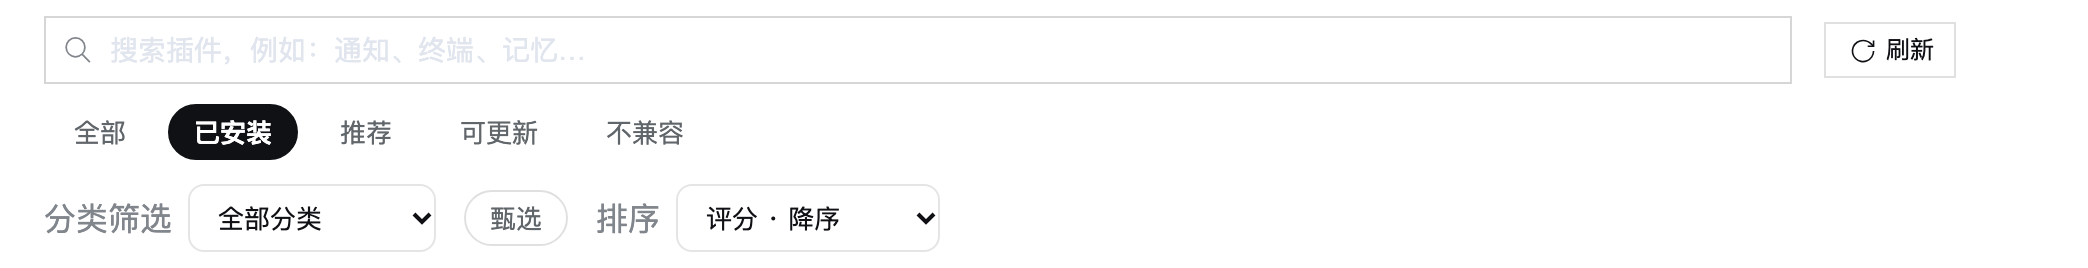
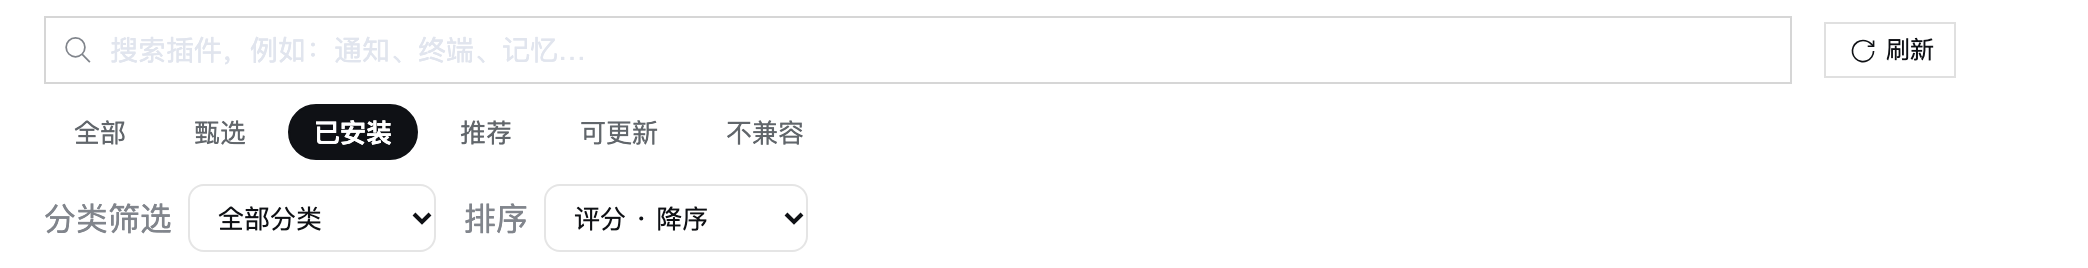
Keep 甄选 in the status row, second after 全部
The field clarified the requested position: the status bar reads
全部, 甄选, 已安装, 推荐, 可更新, 不兼容. The previous commit had moved the
shortcut onto the category-controls line; that placement is reverted.

甄选 is still the same category toggle sharing state with the selector, now
rendered with the new filter-chip treatment: selecting it fills the chip and
「全部」 steps back, so the row shows a single active entry. 「分类筛选」 and
「排序」 keep their own non-wrapping line. Tests, the client contract and the
issue-4 evidence README are updated to the confirmed order.

diff --git a/src/client/MarketSection.tsx b/src/client/MarketSection.tsx
@@ -597,12 +597,11 @@ function Toolbar(props: {
   const { t, query, onQuery, placeholder, busy, onReload, filter, onFilter, recommended, sort, onSort, category, onCategory, categories, categoryCounts } = props
   /*
    * The site's own front page lists every category as a chip with 「甄选」 pinned
-   * first. The panel keeps that shortcut visible, but it belongs to the CATEGORY
-   * controls: putting it in the status chip row made a category look like one of
-   * the mutually-exclusive states. It now sits on the 分类筛选 line, horizontally
-   * with the selector it shortcuts, which also keeps the click state (a filled
-   * chip) next to the control it explains. The selector still reaches the whole
-   * vocabulary.
+   * first. The field asked for that shortcut in the STATUS bar, second after
+   * 「全部」 (全部, 甄选, 已安装, 推荐, 可更新, 不兼容) — an earlier revision of this
+   * change had moved it next to 分类筛选 and was corrected on feedback. It stays
+   * a category toggle sharing state with the selector; selecting it marks the
+   * chip (filled) and 「全部」 steps back so the row shows one active entry.
    */
   const featured = categories?.[0]
   const selectedCategoryLabel = category === undefined || category === ''
@@ -638,21 +637,40 @@ function Toolbar(props: {
       </div>
       {filter !== undefined && onFilter !== undefined && (
         <div className={`${css.toolbarLine} ${css.chipLine}`} role="group" aria-label={t('filterLabel')}>
-          {FILTERS.map(entry => (
+          {FILTERS.slice(0, 1).map(entry => (
             <button
               key={entry.id}
               type="button"
-              /* The status row states the STATUS only. 「全部」 also clears the
-               * category when clicked (it is the "no filter" entry), but a
-               * category selection no longer has to blank this row's selected
-               * chip: the category shortcut has its own pressed state on the
-               * category line now. */
-              aria-pressed={filter === entry.id}
-              className={chip(filter === entry.id)}
+              /* 「全部」 is the "no filter" entry: it also clears the category, so
+               * it counts as selected only while neither a status nor a category
+               * narrows the listing. */
+              aria-pressed={filter === entry.id && (category === undefined || category === '')}
+              className={chip(filter === entry.id && (category === undefined || category === ''))}
               onClick={() => {
-                if (entry.id === 'all') onCategory?.('')
+                onCategory?.('')
                 onFilter(entry.id)
               }}
+            >
+              {t(entry.label)}
+            </button>
+          ))}
+          {featured !== undefined && onCategory !== undefined && category !== undefined && (
+            <button
+              type='button'
+              aria-pressed={category === featured.id}
+              className={chip(category === featured.id)}
+              onClick={() => { onCategory(category === featured.id ? '' : featured.id) }}
+            >
+              {categoryEntryLabel(featured, props.english === true)}
+            </button>
+          )}
+          {FILTERS.slice(1).map(entry => (
+            <button
+              key={entry.id}
+              type="button"
+              aria-pressed={filter === entry.id}
+              className={chip(filter === entry.id)}
+              onClick={() => onFilter(entry.id)}
             >
               {t('fallbackLabel' in entry && recommended !== true ? entry.fallbackLabel : entry.label)}
             </button>
@@ -689,17 +707,6 @@ function Toolbar(props: {
             })}
           </select>
         </label>
-      )}
-      {featured !== undefined && category !== undefined && onCategory !== undefined && (
-        <button
-          type='button'
-          aria-pressed={category === featured.id}
-          className={`${chip(category === featured.id)} ${css.categoryQuick}`}
-          title={categoryEntryLabel(featured, props.english === true)}
-          onClick={() => { onCategory(category === featured.id ? '' : featured.id) }}
-        >
-          {categoryEntryLabel(featured, props.english === true)}
-        </button>
       )}
       {sort !== undefined && onSort !== undefined && (
         <label className={`${css.row} ${css.controlsFixed}`}>

diff --git a/tests/client-market.test.ts b/tests/client-market.test.ts
@@ -1183,10 +1183,9 @@ describe('Discover — the featured category is a chip, and the controls share a
   /**
    * Layout requirements from the field:
    *  1. the site's featured category (甄选, first in the published vocabulary)
-   *     stays visible WITHOUT opening a selector, but it is a CATEGORY shortcut
-   *     and must sit horizontally with the category controls — not among the
-   *     mutually-exclusive status chips, where it read as a sixth status;
-   *  2. 「分类筛选」, 「甄选」 and 「排序」 share one non-wrapping line;
+   *     is a shortcut in the STATUS bar, second after 「全部」:
+   *     全部, 甄选, 已安装, 推荐, 可更新, 不兼容;
+   *  2. 「分类筛选」 and 「排序」 share one non-wrapping line;
    *  3. the clicked chip is marked by its own colour (a class the stylesheet
    *     fills), so hover cannot be mistaken for the selection.
    */
@@ -1245,22 +1244,20 @@ describe('Discover — the featured category is a chip, and the controls share a
       .find(button => (button.textContent ?? '').trim() === label) as HTMLButtonElement | undefined
   }
 
-  it('keeps the status row to statuses and puts 甄选 on the category line', async () => {
+  it('lists 甄选 second in the status row, right after 全部', async () => {
     const host = await mountIn('zh')
     const statuses = [...host.querySelectorAll('[role="group"] button')].map(button => (button.textContent ?? '').trim())
     // This stub ships no `ranking` block, so the recommendation entry renders
     // its honest fallback name 「未安装」.
-    expect(statuses).toEqual(['全部', '已安装', '未安装', '可更新', '不兼容'])
+    expect(statuses).toEqual(['全部', '甄选', '已安装', '未安装', '可更新', '不兼容'])
 
-    const featured = chip(host, '甄选')
-    expect(featured).toBeDefined()
+    // 分类筛选与排序仍在同一行（甄选不占用这一行）。
     const category = host.querySelector('select[aria-label="分类筛选"]')
     const sort = host.querySelector('select[aria-label="排序"]')
     const line = category?.closest('[class*="toolbarControlsLine"]')
     expect(line).not.toBeNull()
-    // 甄选与分类下拉、排序同属一行。
-    expect(line?.contains(featured ?? null)).toBe(true)
     expect(line?.contains(sort ?? null)).toBe(true)
+    expect(line?.contains(chip(host, '甄选') ?? null)).toBe(false)
   })
 
   it('marks the clicked chip with an active colour class, not a hover-only cue', async () => {

diff --git a/src/client/Galaxy.module.css b/src/client/Galaxy.module.css
@@ -73,18 +73,11 @@
   color:var(--dsw-alias-label-primary-foreground,#fff);
   font-weight:600;
 }
-/* The 甄选 shortcut sits beside a labelled select, where unselected plain text
- * read as a second label. A hairline outline keeps it visibly a control without
- * competing with the filled selected state (which keeps the accent border). */
-.categoryQuick:not(.filterChipActive){border-color:var(--dsh-border,var(--dsw-alias-border-l3,#d5d9e0))}
 
-/* Three deliberate lines instead of one wrapping row: search, the status chips,
- * then the category controls (分类筛选 · 甄选 · 排序). The featured-category chip
- * lives on the category line, not among the statuses: a category is not a
- * mutually-exclusive state, and the field asked for it to sit horizontally with
- * the category control it shortcuts. A wrapping flex row dropped the controls
- * onto a line of their own at some widths, which is what "keep them on the same
- * line" rules out. */
+/* Three deliberate lines instead of one wrapping row: search, the status chips
+ * (including the 甄选 shortcut, second after 「全部」), then the 分类筛选 + 排序
+ * controls. A wrapping flex row dropped the controls onto a line of their own at
+ * some widths, which is what "keep them on the same line" rules out. */
 .toolbar{display:flex;flex-direction:column;align-items:stretch;gap:8px;padding:8px 0}
 .toolbarLine{display:flex;align-items:center;gap:8px;min-width:0;flex-wrap:nowrap}
 /* Chips may outgrow the dialog once the site adds categories; scroll rather than

diff --git a/docs/client-contract.md b/docs/client-contract.md
@@ -334,7 +334,7 @@ monorepo 条目在目录里是 `repo#subpath`（如 `archify#integrations/deepse
 | 选中的是 **slug**，不是标签 | 站点可以给分类改标签而不动行数据 |
 | 分类筛选与「状态筛选」「搜索」叠加：先按分类，再按状态，再按搜索 | 三者是正交维度 |
 | 「推荐」是固定榜单：分类过滤同样生效，结果为空时提示"切到「全部」" | 榜单只收录计分条目（甄选类不计分），不假装有内容 |
-| **词表首个分类会被提成 chip**，放在「分类筛选」那一行、与分类下拉和排序水平排列（当前 = 甄选） | 官网首页把分类做成 chips 且甄选恒定置顶；放到下拉里等于"看不见"。它是**分类**快捷方式，不是状态筛选，所以不能混进状态 chip 行（会被读成第六种状态）。官网调整词表顺序，chip 自动跟随 |
+| **词表首个分类会被提成 chip**，排在状态行「全部」之后（当前 = 甄选：全部 / 甄选 / 已安装 / 推荐 / 可更新 / 不兼容） | 官网首页把分类做成 chips 且甄选恒定置顶；放到下拉里等于"看不见"。现场要求它就在状态栏这一行、紧跟「全部」；它仍是**分类**开关（与下拉同一个状态），选中时「全部」退出选中态，行内始终只有一个选中项。官网调整词表顺序，chip 自动跟随 |
 | chip 与下拉是同一个状态：chip 点击是开关（再点一次清除），「全部」也会清除分类 | 两个入口必须可互相解释，不能各说各话 |
 | 点击后的选中态是**整块颜色**（host accent 填充 + 前景色），不是只有下划线 | 下划线 + 文字色与 hover 变的是同一个色，点完分不清"选中"和"鼠标还停在这"，看起来像点击残影；填充色让点击结果一眼可辨，hover/按下都不再改选中块的颜色，且不声明 transition（不经过中间色） |
 
@@ -343,8 +343,8 @@ monorepo 条目在目录里是 `repo#subpath`（如 `archify#integrations/deepse
 | 行 | 内容 | 约束 |
 |---|---|---|
 | 1 | 搜索框 · 视图自带控件 · 刷新 | 搜索框 `flex:1` |
-| 2 | **只有状态 chips**（`role="group"`） | `overflow-x:auto` 横向滚动，**不换行**（官网分类变多时行高仍稳定） |
-| 3 | **分类筛选 + 甄选 + 排序** | `.toolbarControlsLine`，`flex-wrap:nowrap` + `white-space:nowrap`，三者**必须同行** |
+| 2 | **状态 chips + 甄选**（`role="group"`；全部 / 甄选 / 已安装 / 推荐 / 可更新 / 不兼容） | `overflow-x:auto` 横向滚动，**不换行**（官网分类变多时行高仍稳定） |
+| 3 | **分类筛选 + 排序** | `.toolbarControlsLine`，`flex-wrap:nowrap` + `white-space:nowrap`，两者**必须同行** |
 
 > 原因：`.toolbar` 原先是 `flex-wrap:wrap` 的横排，某些宽度下「分类筛选」会被挤到单独一行（实测 `分类筛选 top=88 / 排序 top=46`）。
 > 布局探针（`npm run screenshots` 的 CDP 探测）会把两个 select 的 `getBoundingClientRect()` 一起报出来，改坏了会直接可见。
@@ -355,13 +355,13 @@ monorepo 条目在目录里是 `repo#subpath`（如 `archify#integrations/deepse
 |---|---|---|
 | 分类框与排序**重叠** | 分类框最长的选项（`服务与交易（客服 / 订阅 / 开票 / 支付） (18)`）撑起 `min-width:auto`，flex 不肯收缩 | 分类框 `min-width:0` + `max-width:320px` + `overflow:hidden;text-overflow:ellipsis`（完整标签走 `title`） |
 | 窄宽度下整行**溢出**对话框 | 行宽仍由内容决定 | `.toolbarControlsLine{container-type:inline-size}`：行宽改由容器决定，子项只能压缩不能撑宽；`@container (max-width:430px)` 时隐藏两个文字标签（两个 select 自身可读，且保留 `aria-label`） |
-| 排序被压缩 | 两个控件都可收缩 | 分类框 `flex:0 1 auto`（可收缩），甄选 chip 与排序 `flex:0 0 auto`（不参与压缩） |
+| 排序被压缩 | 两个控件都可收缩 | 分类框 `flex:0 1 auto`（可收缩），排序 `flex:0 0 auto`（不参与压缩） |
 
 实测（`npm run screenshots` 自动跑，宽 1044 逐视图 + **真实对话框宽 420 / 380**）：
 
 ```
-420px: 分类框 right=186  甄选 200–252  排序 left=266  排序 right=398 ≤ 视口 420   PASS
-380px: 分类框 right=146  甄选 160–212  排序 left=226  排序 right=358 ≤ 视口 380   PASS
+420px: 分类框 right=252  排序 left=266  排序 right=398 ≤ 视口 420   PASS
+380px: 分类框 right=212  排序 left=226  排序 right=358 ≤ 视口 380   PASS
 ```
 
 > 注意：截图探针页的 `#root` 必须 `width:100%`（曾写死 1000px，导致三档宽度测出同一组数字，等于没测）。

diff --git a/docs/screenshots/issue-4/README.md b/docs/screenshots/issue-4/README.md
@@ -38,23 +38,26 @@ hover/按下变化，也没有声明 transition）。
 | 选中 | 透明底 / `rgb(15,17,21)` 文字 + 2px 下划线 | `rgb(15,17,21)` 实心底 / `rgb(255,255,255)` 文字 |
 | 选中 + hover | 同选中（无变化） | 同选中（无变化，无 transition） |
 
-## 2. 甄选：从状态 chip 行移到分类控件行
+## 2. 甄选：状态栏「全部」之后
+
+现场确认的位置是状态栏：**全部 / 甄选 / 已安装 / 推荐 / 可更新 / 不兼容**。本 PR 的早期版本曾把
+甄选移到分类控件行，收到反馈后改回状态栏第二项；下面是最终形态（同顺序、新 chip 样式）。
 
 | 之前（1044） | 之后（1044） |
 |---|---|
-| ![before: 甄选 between 全部 and 已安装](before-featured-1044.png) | ![after: 甄选 on the category line](after-featured-1044.png) |
-| 甄选读作第六种状态 chip，和「全部 / 已安装 / 推荐…」互斥关系混淆 | 甄选在「分类筛选」与「排序」之间，三者同一行；未选中时保留 hairline 边框表示可点 |
+| ![before: 甄选 second in the status row, underline tabs](before-featured-1044.png) | ![after: 甄选 second in the status row, chips restyled](after-featured-1044.png) |
+| 甄选本来就在状态行第二项，选中态是下划线 | 位置不变（全部、甄选、已安装、推荐、可更新、不兼容），点击态改为实心填充 |
 
 | 之前（420，宿主对话框真实宽度） | 之后（420） |
 |---|---|
 | ![before at 420](before-featured-420.png) | ![after at 420](after-featured-420.png) |
-| 甄选挤在状态行，分类与排序单独一行 | 分类框、甄选、排序同一行，不换行、不重叠、不出框 |
+| 同一顺序；分类与排序在下一行 | 顺序不变；分类框与排序仍同行、不重叠、不出框 |
 
-几何（CDP `getBoundingClientRect`）：
+分类与排序的几何（CDP `getBoundingClientRect`）：
 
 ```
-420px  after: 分类框 right=186   甄选 200–252   排序 left=266   right=398  ≤ 420
-380px  after: 分类框 right=146   甄选 160–212   排序 left=226   right=358  ≤ 380
+420px  after: 分类框 right=252   排序 left=266   right=398  ≤ 420
+380px  after: 分类框 right=212   排序 left=226   right=358  ≤ 380
 ```
 
 ## 3. 排序项

diff --git a/README.md b/README.md
@@ -48,7 +48,7 @@
 | 能力 | 说明 |
 |---|---|
 | 五个筛选 | **全部 / 推荐 / 已安装 / 可更新 / 不兼容**，都是同一套卡片网格；筛选是视图，不是排序 |
-| 分类筛选 | **官网词表的首个分类（当前=甄选）直接作为 chip 显示在「分类筛选」这一行**，与分类下拉、排序水平排列，一眼可见；完整词表在下拉里（顺序/标签同官网，数字按目录实时统计，可与状态筛选、搜索叠加）。官网新增或改名分类，面板自动跟随 |
+| 分类筛选 | **官网词表的首个分类（当前=甄选）直接作为 chip 排在状态行「全部」之后**（全部 / 甄选 / 已安装 / 推荐 / 可更新 / 不兼容），一眼可见；完整词表在「分类筛选」下拉里（顺序/标签同官网，数字按目录实时统计，可与状态筛选、搜索叠加）。官网新增或改名分类，面板自动跟随 |
 | 推荐视图 | 官网 `ranking.top` 前 20（跳过已安装自动补位），每张卡片印名次与分档（S/A/B/C）、评分与"为什么推荐"（编辑推荐条目带 🖊 与理由） |
 | 搜索 | 名称 / npm 包名 / 分类（标签与 slug 都认）/ 描述 / 作者，同时认**官网展示名**与原始包名 |
 | 排序 | 评分 / Star 数 / 发布时间，各升降序（默认评分降序；推荐视图按名次，不排序） |
